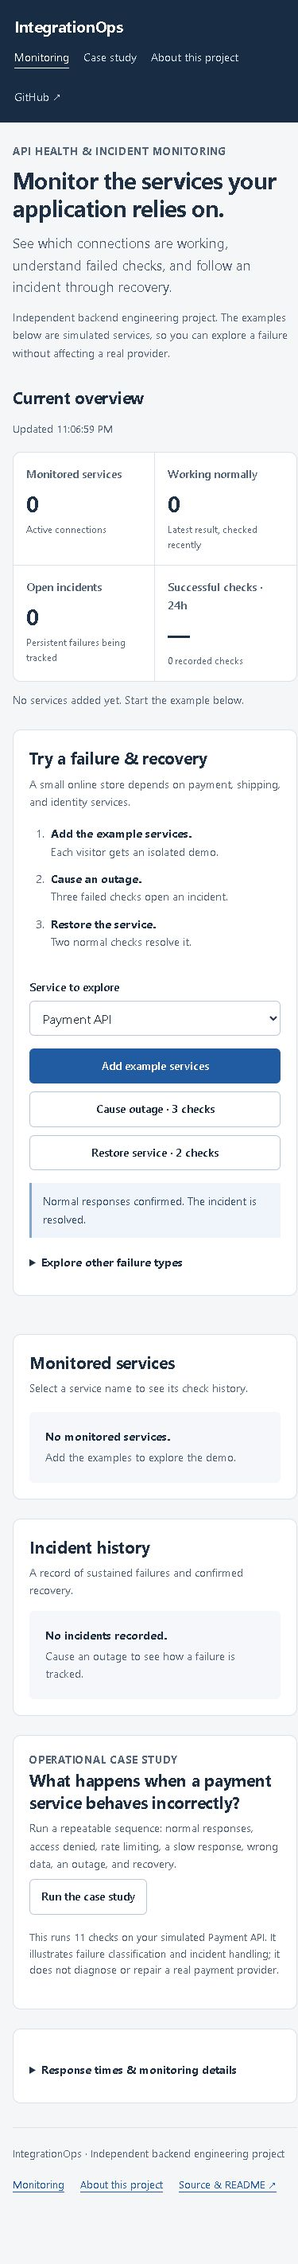
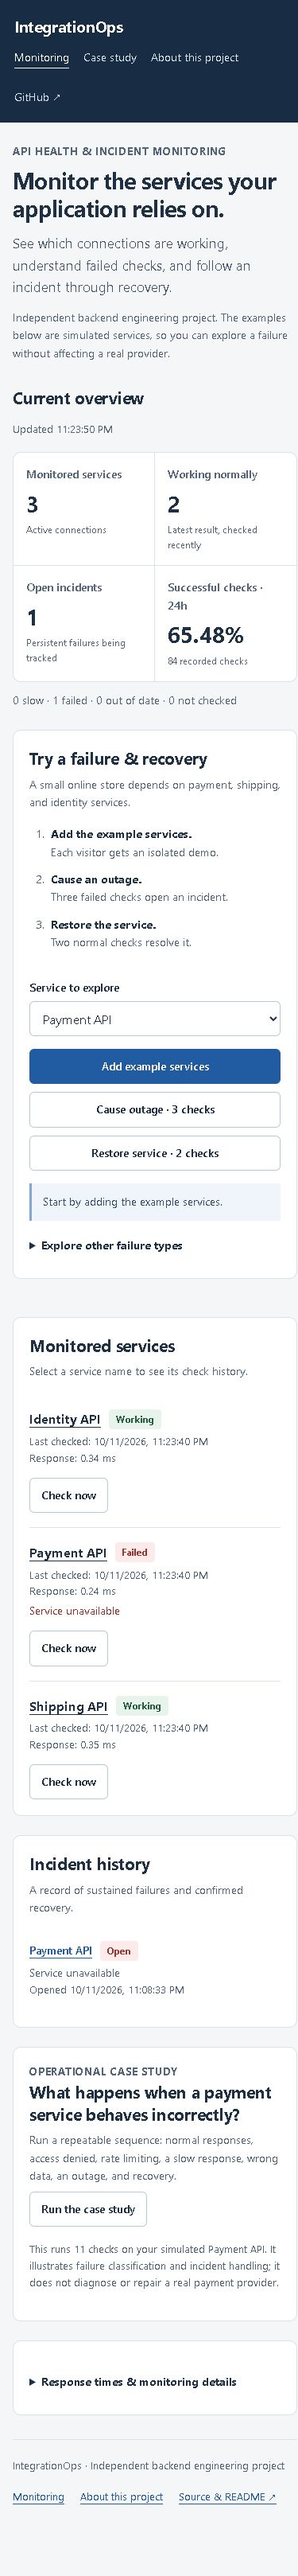
Record hosted browser validation and refresh mobile evidence

diff --git a/docs/VALIDATION.md b/docs/VALIDATION.md
@@ -60,7 +60,7 @@ This comparison covers the latest-result lookup only, not the entire API or a pr
 
 Manual browser verification covered the three-service setup, outage/recovery, the complete 11-step case study, About navigation, direct GitHub links, and service history. Responsive inspection covers desktop and narrow mobile layouts.
 
-The repository also contains automated Playwright desktop/mobile workflows. The published CI result is the authoritative record for those runs; authoring/type-checking them is not counted as a completed browser execution.
+The hosted Playwright job passed all 8 desktop/mobile tests: failure classification and recovery, service history, About/source links, narrow layouts, the complete case study, and visible connection/invalid-service errors. The backend and frontend jobs also passed. [Hosted validation run](https://github.com/dpat0103/IntegrationOps/actions/runs/38199536192). The distributed recovery job is reported separately by that workflow.
 
 Saved previews are in `docs/validation/`. They show simulated data.
 
